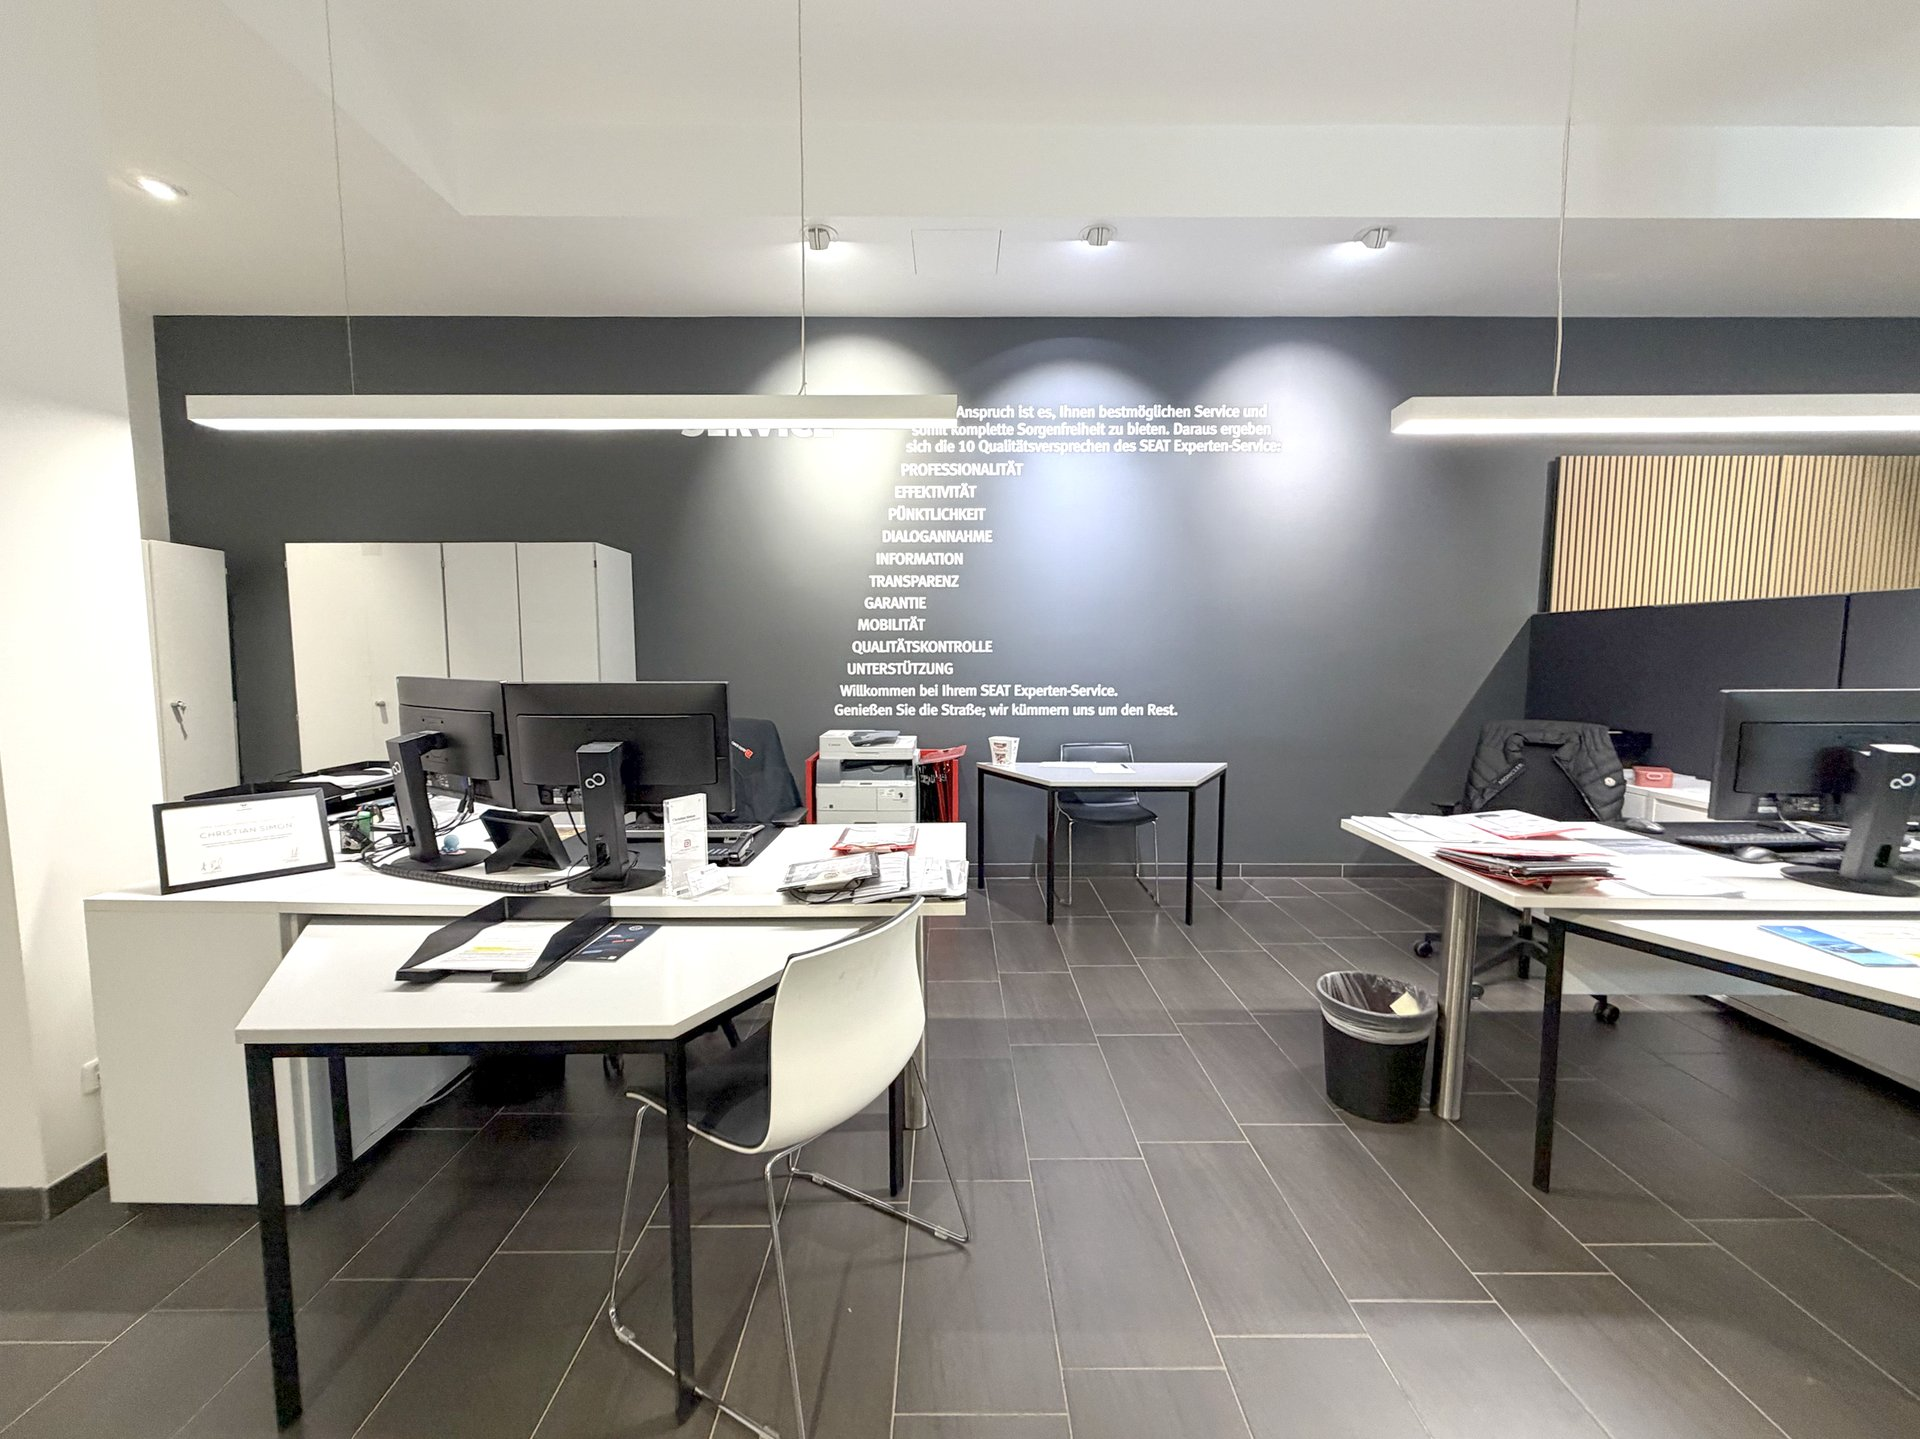
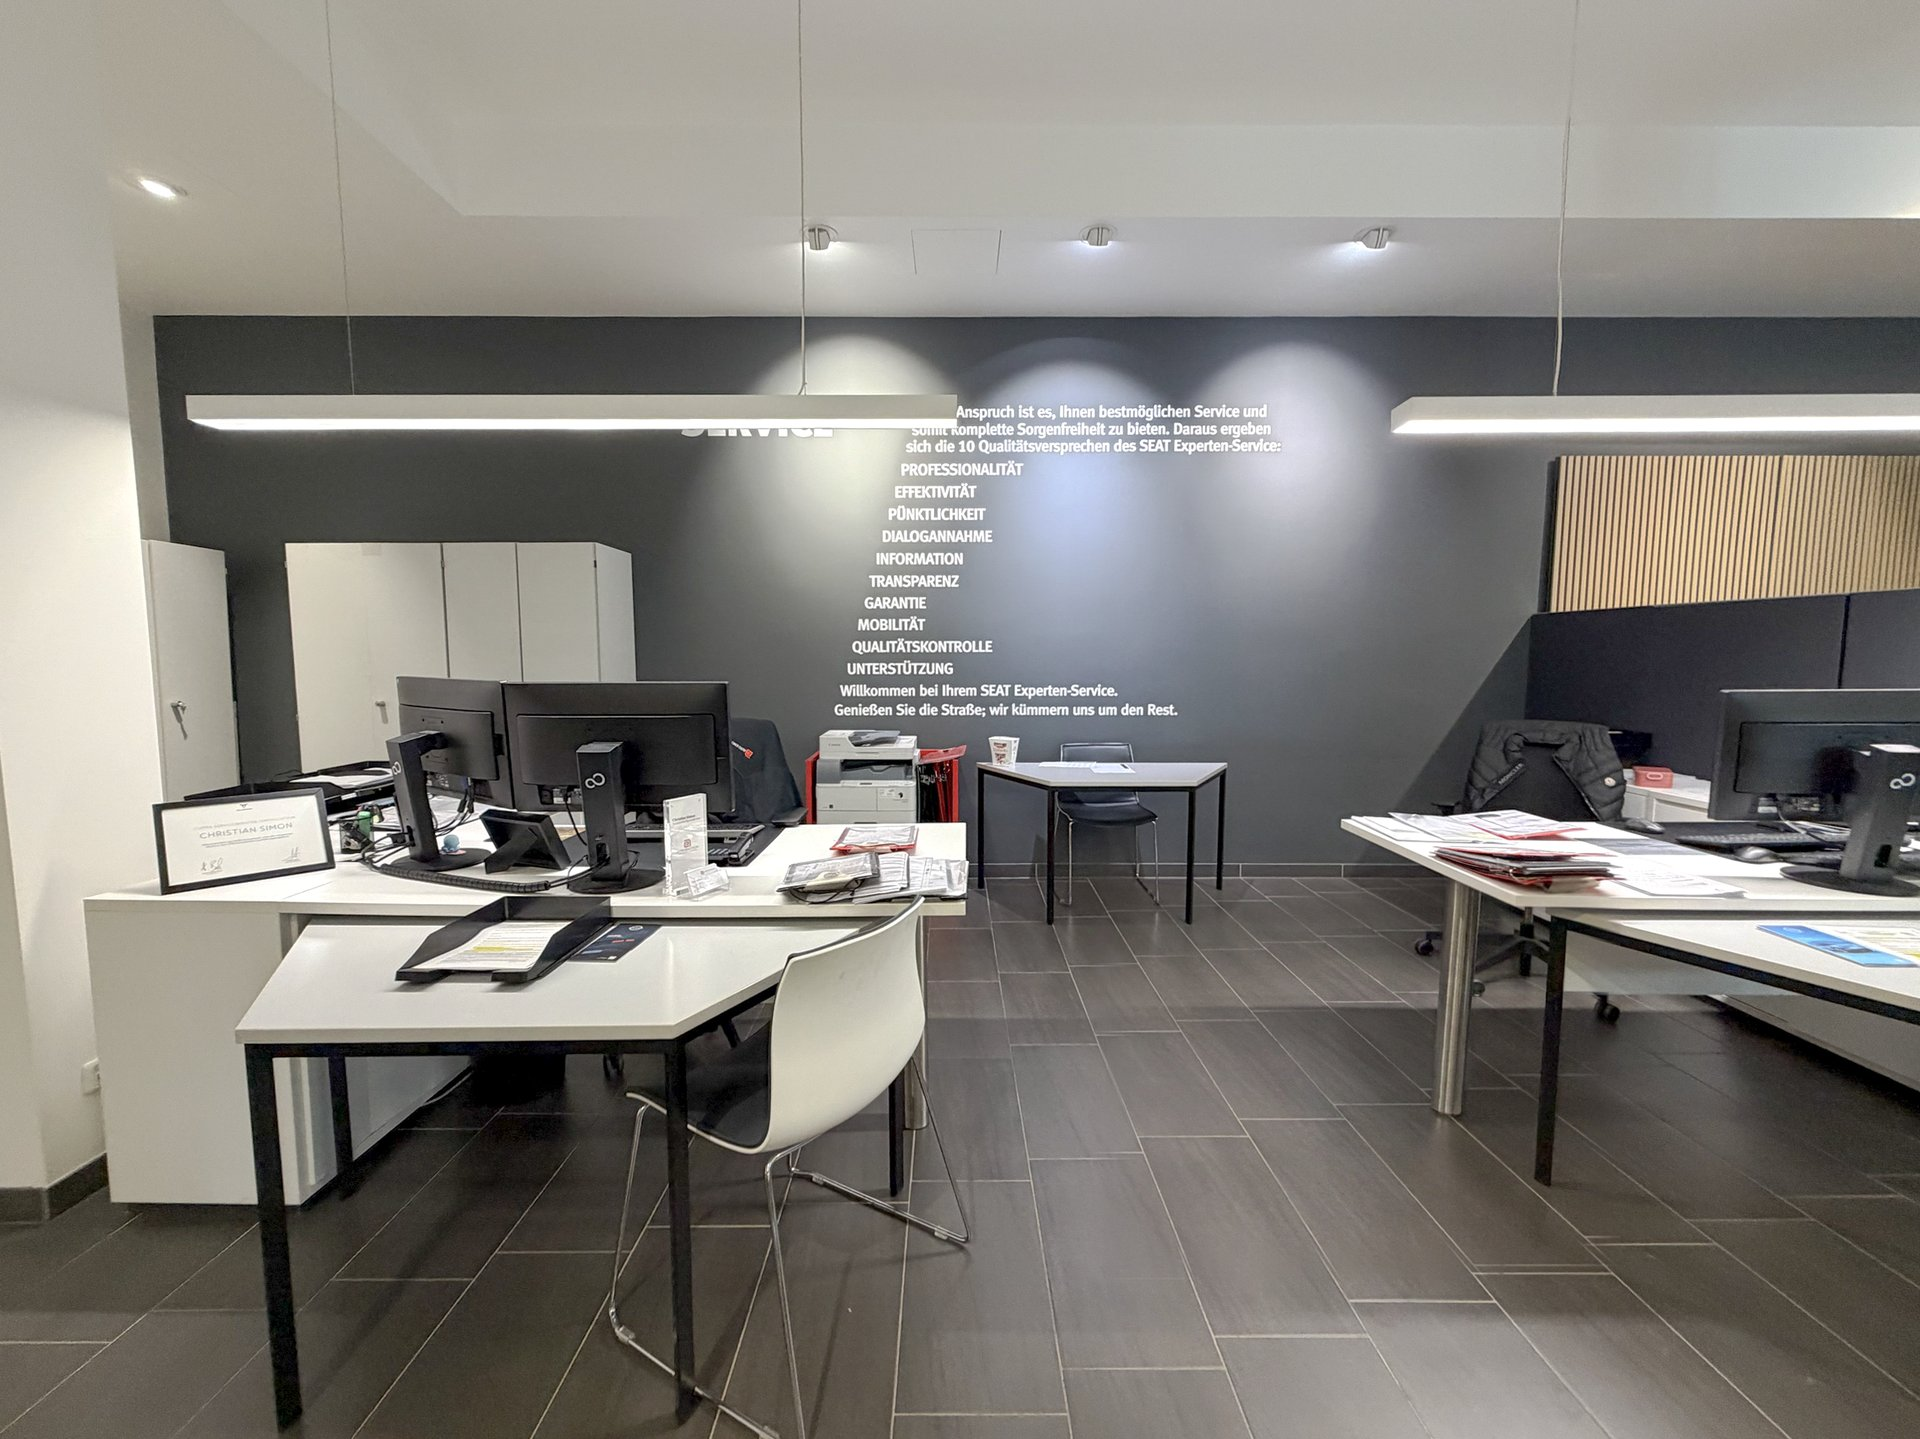
Mülleimer entfernt, kontrollierte Tageslicht-Helligkeit für Karriere-Fotos
Serviceassistentin-Foto: Mülleimer aus dem Bild retuschiert (Klonpatch
aus KI-Korrektur derselben Fliesenfläche, nahtlos, Wandtext unangetastet).
Beide Karriere-Fotos zusätzlich aufgehellt für einen Tageslicht-Look,
dabei Lichter/Decke gezielt vor Überbelichtung geschützt, damit das
Bild klar und professionell bleibt statt ausgewaschen.

Projektregel in CLAUDE.md ergänzt: Mülleimer/Papierkörbe künftig immer
entfernen, Belichtung immer auf "viel Tageslicht" ziehen, aber mit
geschützten Lichtern statt pauschaler Überbelichtung.

Claude-Session: https://claude.ai/code/session_01BW4FCw33MiAobpcCX7pnXm

diff --git a/CLAUDE.md b/CLAUDE.md
@@ -25,11 +25,19 @@ nachbearbeiten – Ziel ist ein heller, cleaner „Apple-Campus"-Look:
 - **Geometrie korrigieren**: Horizontlinien/Dachkanten exakt horizontal,
   senkrechte Elemente (Säulen, Hebebühnen, Türrahmen) exakt vertikal
   ausrichten – Weitwinkel-Verzerrung rausrechnen.
-- **Belichtung**: insgesamt heller, gleichmäßig ausgeleuchtet, keine harten
+- **Belichtung – immer viel Tageslicht-Helligkeit reinbringen**: deutlich
+  heller als das Originalfoto, so als stünden alle Türen/Tore offen und
+  die Sonne würde reinscheinen. Gleichmäßig ausgeleuchtet, keine harten
   Schatten oder dunklen Ecken, neutral-helle Farbgebung statt warmstichig.
-- Dabei **niemals reale Objekte, Personen, Fahrzeuge oder das Layout des
-  Raums verändern** – nur Geometrie, Bodenreinigung und Belichtung, das
-  Foto muss ein echtes, unverfälschtes Abbild des Orts bleiben.
+  Das Bild muss auf den ersten Blick ganz klar und licht wirken, nicht nur
+  leicht aufgehellt.
+- **Mülleimer/Papierkörbe entfernen**: sichtbare Mülleimer, Papierkörbe
+  und ähnlicher Wegwerf-Krimskrams gehören nicht ins Bild und werden
+  wegretuschiert.
+- Ansonsten **niemals reale Objekte, Personen, Fahrzeuge, Beschriftungen/
+  Texte oder das Layout des Raums verändern** – nur Geometrie,
+  Bodenreinigung, Mülleimer-Entfernung und Belichtung, das Foto muss
+  ein echtes, unverfälschtes Abbild des Orts bleiben.
 
 Bei Bedarf mehrere Korrektur-Durchgänge (z. B. erst Geometrie/Belichtung,
 dann gezielt nur noch den Boden nachschärfen), bis das Ergebnis diesem
